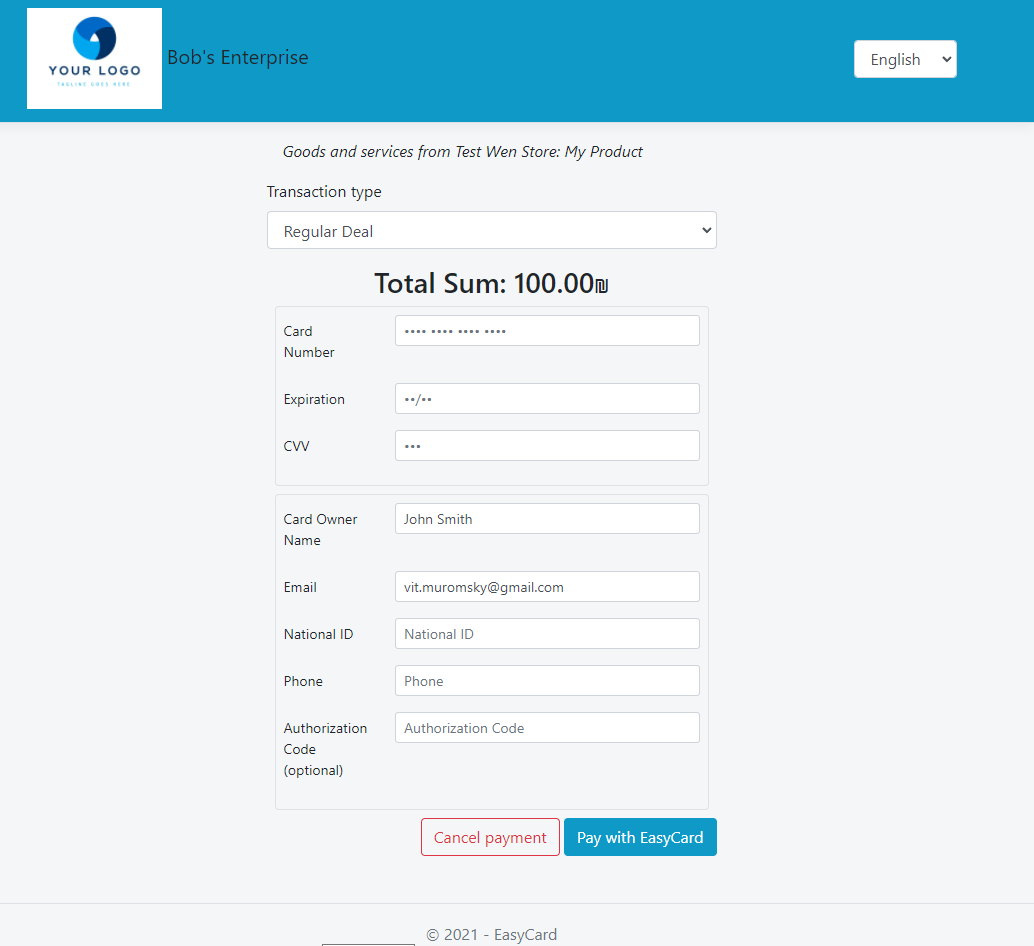
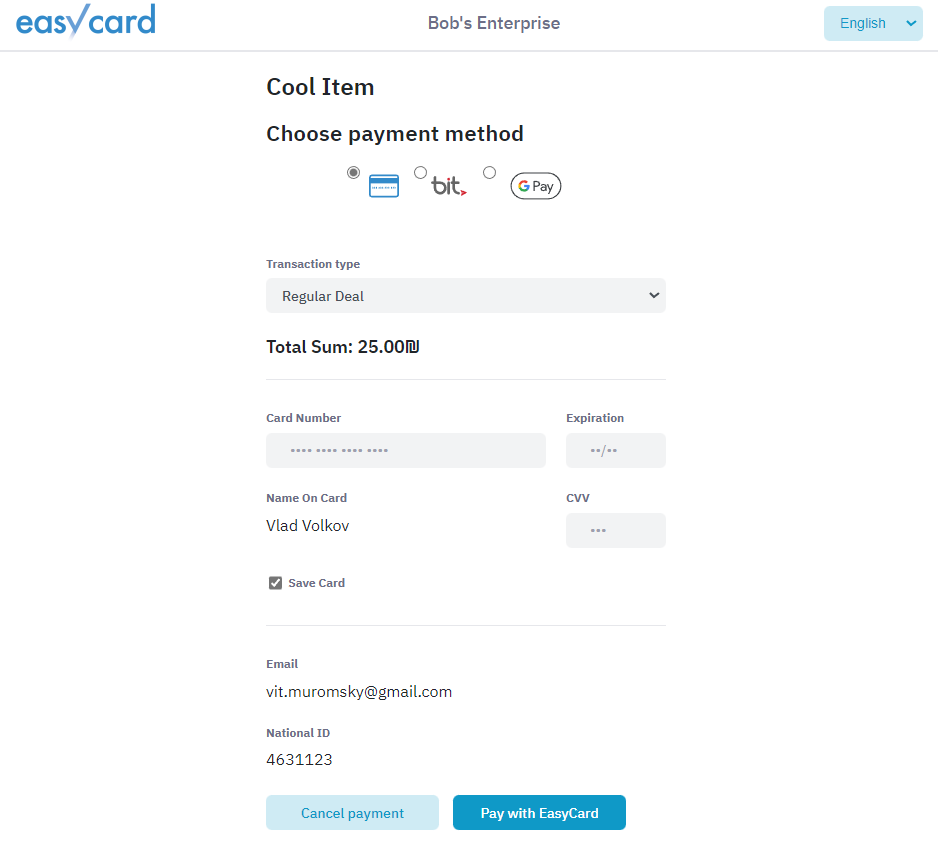
Google pay section

diff --git a/GooglePay.md b/GooglePay.md
@@ -1,0 +1,43 @@
+EasyCard Next Generation API v1 - _Using Google Pay on Checkout Page_
+=================================================================
+
+> If you are planning to provide [Google Pay&trade;](https://developers.google.com/pay) payment method to your consumers please check requirements below
+
+[Google Pay&trade;](https://developers.google.com/pay) is the fast, simple way to pay with Google
+
+Google Pay allows you to use NFC capable Android devices to make payments. It brings together everything you need at checkout and keeps your payment info safe in your Google Account until you're ready to pay.
+
+<br/>
+
+EasyCard configuration
+-----------------------------------------------------------------
+
+To allow _Google Pay_ payment method on EasyCard checkout page you need to enable _Google Pay Feature_
+
+>Please note: for the moment you need to request EasyCard administration team to enable Google Pay feature for you.
+
+Next, you need to specify your company _Google Merchant ID_ in terminal settings:
+
+![Google Merchant ID](images/GooglePaySettings.png)
+
+As a result, a new payment method will appear on the checkout page - Google Pay:
+
+![Google Pay Payment Option](images/GooglePayPaymentMethodSelection.png)
+
+<br/>
+
+Google Pay and Wallet Console configuration
+-----------------------------------------------------------------
+
+Before enabling Google Pay feature in your EasyCard terminal, please ensure that your Google Pay account meets all requirements. Please use [Google Pay and Wallet Console](https://pay.google.com/business/console) for registration and management actions. 
+For _Google Pay API integration type_ parameter please use "Gateway" option.
+After registration you can get _Google Merchant ID_ using that console and then you need to request Google administrators to enabled your account for production.
+
+> Please ensure that your company adheres to the Google Pay APIs [Acceptable Use Policy](https://payments.developers.google.com/terms/aup) and accepts the terms defined in the [Google Pay API Terms of Service](https://payments.developers.google.com/terms/sellertos).
+
+<br/>
+
+Environments
+-----------------------------------------------------------------
+ 
+ Please note, that [Sandbox](Readme.md#environments) environment of EasyCard always configured for Google Pay _TEST_ environment and EasyCard Production is pointed to Google Pay _PRODUCTION_ environment.

diff --git a/CheckoutPage.md b/CheckoutPage.md
@@ -25,6 +25,8 @@ Sections
 
 - [Checkout Page - Only Save Consumer's Card](#checkout-page---only-save-card)
 
+- [Google Pay](GooglePay.md)
+
 
 <br/>
 
@@ -77,6 +79,7 @@ There are two options to generate Checkout Page:
 > Checkout Page url for live environment is [https://checkout.e-c.co.il](https://checkout.e-c.co.il)
 
 <!-- <div style="page-break-after: always;"></div> -->
+If you are planning to provide [Google Pay&trade;](https://developers.google.com/pay) payment method to your consumers please refer [this section](GooglePay.md)
 
 <br/><br/>
 

diff --git a/Webhooks.md b/Webhooks.md
@@ -18,7 +18,7 @@ Next, you need to select event type (for which you want to get webhook requests)
 You cannot use localhost* addresses, as well any intranet addresses
 ```
 
-> Please note: for the moment you need to reauest EasyCard administration team to make Webhooks configuration for you.
+> Please note: for the moment you need to request EasyCard administration team to make Webhooks configuration for you.
 
 <br/>
 
